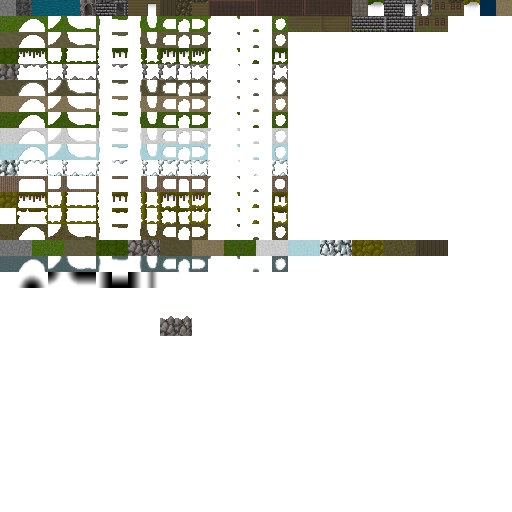
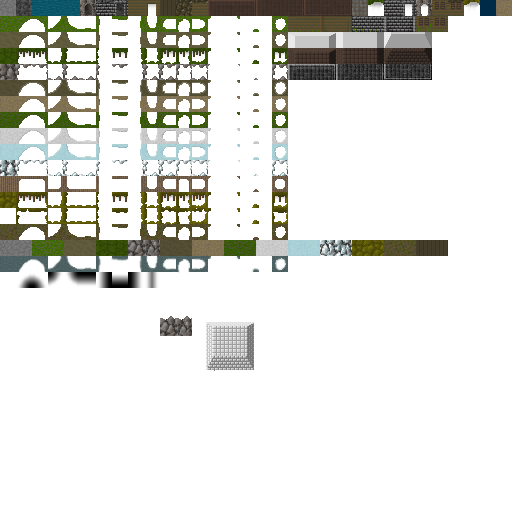
- Healing generate less threat. - More tiles.

Changed region(s): [[0.5625, 0.0625, 0.8438, 0.1562], [0.4062, 0.625, 0.5, 0.75]]

diff --git a/lib/DirectEffects/Heal.cpp b/lib/DirectEffects/Heal.cpp
@@ -131,7 +131,7 @@ namespace tpublic::DirectEffects
 
 			if(targetThreatSource != NULL)
 			{
-				int32_t threat = (int32_t)heal;
+				int32_t threat = (int32_t)heal / 2;
 				if(result == CombatEvent::ID_CRITICAL)
 					threat = (threat * 3) / 2;
 
